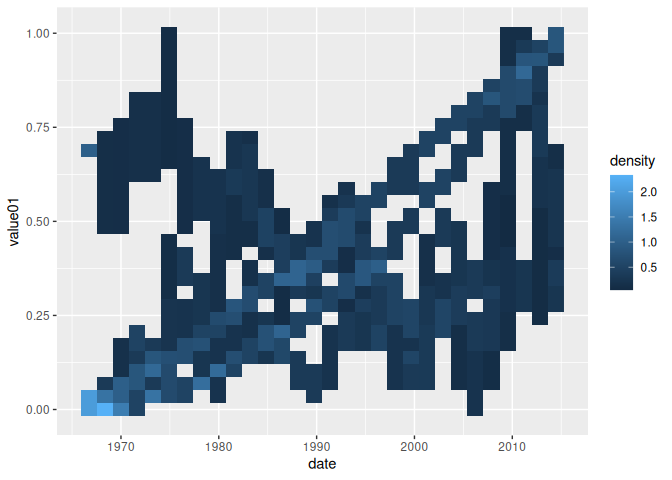
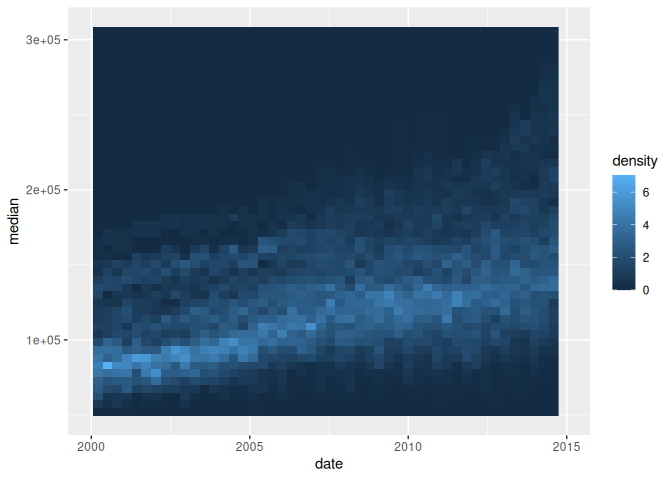
Use txhousing for examples, remotes for installation instruction

diff --git a/README.md b/README.md
@@ -19,8 +19,8 @@ identify anomalous extrema” ([Moritz and Fisher,
 You can install the development version of gglinedensity like so:
 
 ``` r
-# install.packages("devtools")
-devtools::install_github("hrryt/gglinedensity")
+# install.packages("remotes")
+remotes::install_github("hrryt/gglinedensity")
 ```
 
 ## Example
@@ -30,8 +30,13 @@ This is a basic example which shows you how to solve a common problem:
 ``` r
 library(ggplot2)
 library(gglinedensity)
-ggplot(economics_long, aes(date, value01, group = variable)) +
-  stat_line_density()
+ggplot(txhousing, aes(date, median, group = city)) +
+  stat_line_density(bins = 50, drop = FALSE) +
+  xlim(2000, 2015)
+#> Warning: Removed 886 rows containing non-finite outside the scale range
+#> (`stat_line_density()`).
+#> Warning: Removed 100 rows containing missing values or values outside the scale range
+#> (`geom_raster()`).
 ```
 
 <img src="man/figures/README-example-1.png" width="100%" />
